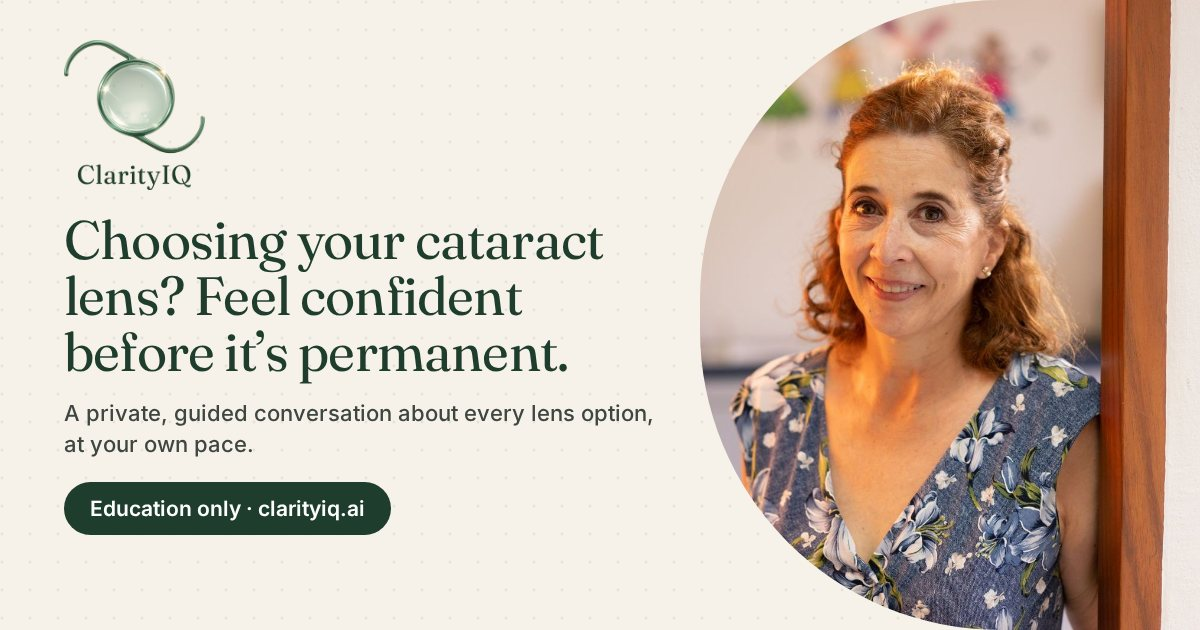
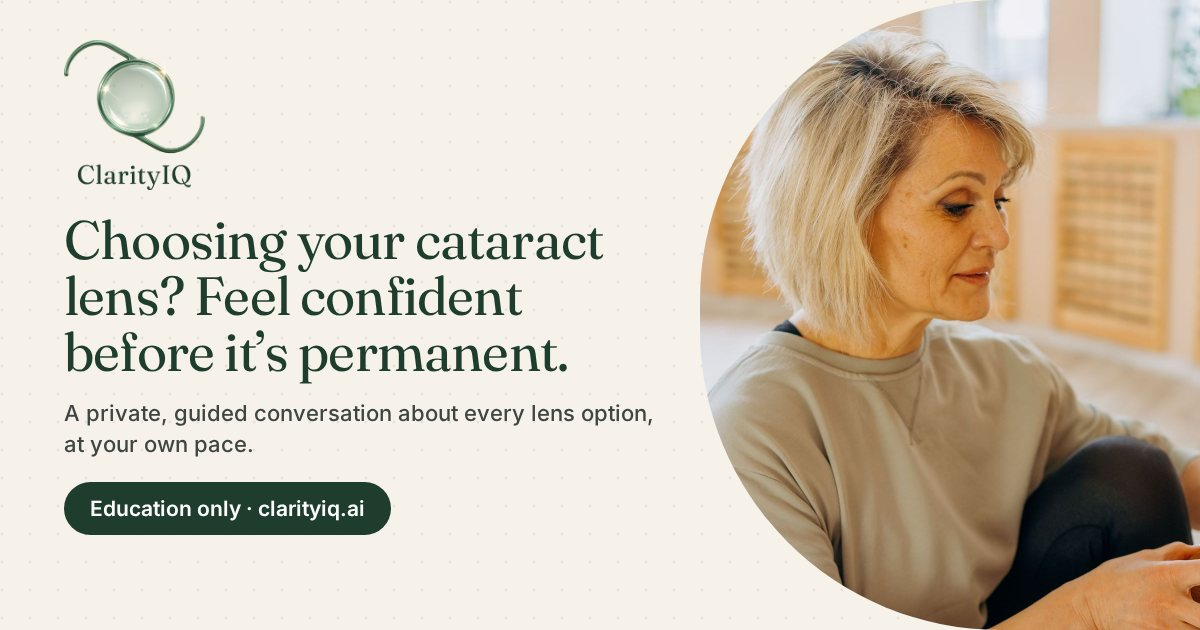
Round 3: calmer hero photo, own photos for guide heroes, Get launch pass header CTA on guides
- Hero: Pexels 7500707 (Mikhail Nilov); og-home.jpg rebuilt
- Lens guide hub: Pexels 10879117; lens types: Pexels 6028685; how it works: Pexels 7793713 (no photo reused across pages)
- Guide header CTA reads Get launch pass, links /#offer, keeps data-seo-cta=seo_session
- Tests: uniqueness + header CTA checks

diff --git a/monofocal-vs-multifocal-vs-edof-lens.html b/monofocal-vs-multifocal-vs-edof-lens.html
@@ -275,7 +275,7 @@
 <header class="nav">
   <div class="wrap nav-inner">
     <a href="/" class="logo" aria-label="ClarityIQ home"><span class="logo-slot"><picture><source media="(max-width:900px)" srcset="/brand/clarityiq-horizontal-32h@1x.webp 1x, /brand/clarityiq-horizontal-32h@2x.webp 2x" type="image/webp"><source srcset="/brand/clarityiq-horizontal-40h@1x.webp 1x, /brand/clarityiq-horizontal-40h@2x.webp 2x" type="image/webp"><img src="/brand/clarityiq-horizontal-40h@1x.png" srcset="/brand/clarityiq-horizontal-40h@2x.png 2x" width="186" height="40" alt="ClarityIQ"></picture></span></a>
-    <a href="/#offer" class="btn btn-secondary" data-seo-cta="seo_session">Start a session</a>
+    <a href="/#offer" class="btn btn-secondary" data-seo-cta="seo_session">Get launch pass</a>
   </div>
   <nav class="pillbar" aria-label="Guides"><div class="wrap pills"><a class="pill" href="/which-lens-for-cataract-surgery"><svg class="ic ic-pill" aria-hidden="true" focusable="false" xmlns="http://www.w3.org/2000/svg" viewBox="0 0 24 24" fill="none" stroke="currentColor" stroke-width="2" stroke-linecap="round" stroke-linejoin="round" ><path d="M12 5v16" /><path d="M20.001 19A2 2 0 0022 17V5a2 2 0 00-1.999-2L16 3.002A5 5 0 0012 5a5 5 0 00-4-2H4a2 2 0 00-2 2v12a2 2 0 001.999 2H8a5 5 0 014 2 5 5 0 014-2z" /></svg><span>Lens guide</span></a><a class="pill" href="/monofocal-vs-multifocal-vs-edof-lens" aria-current="page"><svg class="ic ic-pill" aria-hidden="true" focusable="false" xmlns="http://www.w3.org/2000/svg" viewBox="0 0 24 24" fill="none" stroke="currentColor" stroke-width="2" stroke-linecap="round" stroke-linejoin="round" ><path d="M2.062 12.348a1 1 0 0 1 0-.696 10.75 10.75 0 0 1 19.876 0 1 1 0 0 1 0 .696 10.75 10.75 0 0 1-19.876 0" /><circle cx="12" cy="12" r="3" /></svg><span>Lens options</span></a><a class="pill" href="/toric-lens-astigmatism-cataract-surgery"><svg class="ic ic-pill" aria-hidden="true" focusable="false" xmlns="http://www.w3.org/2000/svg" viewBox="0 0 24 24" fill="none" stroke="currentColor" stroke-width="2" stroke-linecap="round" stroke-linejoin="round" ><path d="M21 12a9 9 0 1 1-9-9c2.52 0 4.93 1 6.74 2.74L21 8" /><path d="M21 3v5h-5" /></svg><span>Toric lenses</span></a><a class="pill" href="/questions-to-ask-cataract-surgeon"><svg class="ic ic-pill" aria-hidden="true" focusable="false" xmlns="http://www.w3.org/2000/svg" viewBox="0 0 24 24" fill="none" stroke="currentColor" stroke-width="2" stroke-linecap="round" stroke-linejoin="round" ><path d="M13 5h8" /><path d="M13 12h8" /><path d="M13 19h8" /><path d="m3 17 2 2 4-4" /><path d="m3 7 2 2 4-4" /></svg><span>Questions to ask</span></a><a class="pill" href="/how-clarityiq-works"><svg class="ic ic-pill" aria-hidden="true" focusable="false" xmlns="http://www.w3.org/2000/svg" viewBox="0 0 24 24" fill="none" stroke="currentColor" stroke-width="2" stroke-linecap="round" stroke-linejoin="round" ><path d="M12 19v3" /><path d="M19 10v2a7 7 0 0 1-14 0v-2" /><rect x="9" y="2" width="6" height="13" rx="3" /></svg><span>How it works</span></a><a class="pill" href="/#free-guides"><svg class="ic ic-pill" aria-hidden="true" focusable="false" xmlns="http://www.w3.org/2000/svg" viewBox="0 0 24 24" fill="none" stroke="currentColor" stroke-width="2" stroke-linecap="round" stroke-linejoin="round" ><path d="M6 22a2 2 0 0 1-2-2V4a2 2 0 0 1 2-2h8a2.4 2.4 0 0 1 1.704.706l3.588 3.588A2.4 2.4 0 0 1 20 8v12a2 2 0 0 1-2 2z" /><path d="M14 2v5a1 1 0 0 0 1 1h5" /><path d="M10 9H8" /><path d="M16 13H8" /><path d="M16 17H8" /></svg><span>Free guides</span></a><a class="pill" href="/#founder"><svg class="ic ic-pill" aria-hidden="true" focusable="false" xmlns="http://www.w3.org/2000/svg" viewBox="0 0 24 24" fill="none" stroke="currentColor" stroke-width="2" stroke-linecap="round" stroke-linejoin="round" ><path d="M2 21a8 8 0 0 1 13.292-6" /><circle cx="10" cy="8" r="5" /><path d="m16 19 2 2 4-4" /></svg><span>About</span></a></div></nav>
 </header>
@@ -287,7 +287,7 @@
 <p class="byline">ClarityIQ · Reviewed by a board-certified ophthalmologist</p>
 <p class="updated">Last updated November 18, 2026.</p>
 <p class="share-inline ciq-share-wrap"><button type="button" class="ciq-share" data-share-surface="guide_lens_types">Send this to a family member</button></p>
-</div><figure class="hero-art"><picture><source srcset="/images/home/home-step-understand-v2.webp" type="image/webp"><img src="/images/home/home-step-understand-v2.jpg" width="900" height="600" alt="" decoding="async" style="object-position:25% center"></picture></figure></div></div>
+</div><figure class="hero-art"><picture><source srcset="/images/home/guide-compare-laptop.webp" type="image/webp"><img src="/images/home/guide-compare-laptop.jpg" width="1200" height="800" alt="" decoding="async" style="object-position:62% center"></picture></figure></div></div>
 
 <p>Before cataract surgery, you may be asked to choose between a monofocal lens, an extended depth of focus (EDOF) lens, and a multifocal lens. This page puts the three side by side. Each one is described with the same three questions: what it aims for, its trade-offs, and who might ask about it.</p>
 <p class="note">No lens category is better than the others for everyone. Results vary by eye and by surgeon, and this page will not tell you which lens to pick. That choice belongs to you and your surgeon.</p>

diff --git a/which-lens-for-cataract-surgery.html b/which-lens-for-cataract-surgery.html
@@ -260,7 +260,7 @@
 <header class="nav">
   <div class="wrap nav-inner">
     <a href="/" class="logo" aria-label="ClarityIQ home"><span class="logo-slot"><picture><source media="(max-width:900px)" srcset="/brand/clarityiq-horizontal-32h@1x.webp 1x, /brand/clarityiq-horizontal-32h@2x.webp 2x" type="image/webp"><source srcset="/brand/clarityiq-horizontal-40h@1x.webp 1x, /brand/clarityiq-horizontal-40h@2x.webp 2x" type="image/webp"><img src="/brand/clarityiq-horizontal-40h@1x.png" srcset="/brand/clarityiq-horizontal-40h@2x.png 2x" width="186" height="40" alt="ClarityIQ"></picture></span></a>
-    <a href="/#offer" class="btn btn-secondary" data-seo-cta="seo_session">Start a session</a>
+    <a href="/#offer" class="btn btn-secondary" data-seo-cta="seo_session">Get launch pass</a>
   </div>
   <nav class="pillbar" aria-label="Guides"><div class="wrap pills"><a class="pill" href="/which-lens-for-cataract-surgery" aria-current="page"><svg class="ic ic-pill" aria-hidden="true" focusable="false" xmlns="http://www.w3.org/2000/svg" viewBox="0 0 24 24" fill="none" stroke="currentColor" stroke-width="2" stroke-linecap="round" stroke-linejoin="round" ><path d="M12 5v16" /><path d="M20.001 19A2 2 0 0022 17V5a2 2 0 00-1.999-2L16 3.002A5 5 0 0012 5a5 5 0 00-4-2H4a2 2 0 00-2 2v12a2 2 0 001.999 2H8a5 5 0 014 2 5 5 0 014-2z" /></svg><span>Lens guide</span></a><a class="pill" href="/monofocal-vs-multifocal-vs-edof-lens"><svg class="ic ic-pill" aria-hidden="true" focusable="false" xmlns="http://www.w3.org/2000/svg" viewBox="0 0 24 24" fill="none" stroke="currentColor" stroke-width="2" stroke-linecap="round" stroke-linejoin="round" ><path d="M2.062 12.348a1 1 0 0 1 0-.696 10.75 10.75 0 0 1 19.876 0 1 1 0 0 1 0 .696 10.75 10.75 0 0 1-19.876 0" /><circle cx="12" cy="12" r="3" /></svg><span>Lens options</span></a><a class="pill" href="/toric-lens-astigmatism-cataract-surgery"><svg class="ic ic-pill" aria-hidden="true" focusable="false" xmlns="http://www.w3.org/2000/svg" viewBox="0 0 24 24" fill="none" stroke="currentColor" stroke-width="2" stroke-linecap="round" stroke-linejoin="round" ><path d="M21 12a9 9 0 1 1-9-9c2.52 0 4.93 1 6.74 2.74L21 8" /><path d="M21 3v5h-5" /></svg><span>Toric lenses</span></a><a class="pill" href="/questions-to-ask-cataract-surgeon"><svg class="ic ic-pill" aria-hidden="true" focusable="false" xmlns="http://www.w3.org/2000/svg" viewBox="0 0 24 24" fill="none" stroke="currentColor" stroke-width="2" stroke-linecap="round" stroke-linejoin="round" ><path d="M13 5h8" /><path d="M13 12h8" /><path d="M13 19h8" /><path d="m3 17 2 2 4-4" /><path d="m3 7 2 2 4-4" /></svg><span>Questions to ask</span></a><a class="pill" href="/how-clarityiq-works"><svg class="ic ic-pill" aria-hidden="true" focusable="false" xmlns="http://www.w3.org/2000/svg" viewBox="0 0 24 24" fill="none" stroke="currentColor" stroke-width="2" stroke-linecap="round" stroke-linejoin="round" ><path d="M12 19v3" /><path d="M19 10v2a7 7 0 0 1-14 0v-2" /><rect x="9" y="2" width="6" height="13" rx="3" /></svg><span>How it works</span></a><a class="pill" href="/#free-guides"><svg class="ic ic-pill" aria-hidden="true" focusable="false" xmlns="http://www.w3.org/2000/svg" viewBox="0 0 24 24" fill="none" stroke="currentColor" stroke-width="2" stroke-linecap="round" stroke-linejoin="round" ><path d="M6 22a2 2 0 0 1-2-2V4a2 2 0 0 1 2-2h8a2.4 2.4 0 0 1 1.704.706l3.588 3.588A2.4 2.4 0 0 1 20 8v12a2 2 0 0 1-2 2z" /><path d="M14 2v5a1 1 0 0 0 1 1h5" /><path d="M10 9H8" /><path d="M16 13H8" /><path d="M16 17H8" /></svg><span>Free guides</span></a><a class="pill" href="/#founder"><svg class="ic ic-pill" aria-hidden="true" focusable="false" xmlns="http://www.w3.org/2000/svg" viewBox="0 0 24 24" fill="none" stroke="currentColor" stroke-width="2" stroke-linecap="round" stroke-linejoin="round" ><path d="M2 21a8 8 0 0 1 13.292-6" /><circle cx="10" cy="8" r="5" /><path d="m16 19 2 2 4-4" /></svg><span>About</span></a></div></nav>
 </header>
@@ -272,7 +272,7 @@
 <p class="byline">ClarityIQ · Reviewed by a board-certified ophthalmologist</p>
 <p class="updated">Last updated November 18, 2026.</p>
 <p class="share-inline ciq-share-wrap"><button type="button" class="ciq-share" data-share-surface="guide_which_lens">Send this to a family member</button></p>
-</div><figure class="hero-art"><picture><source srcset="/images/home/home-goals-outdoors.webp" type="image/webp"><img src="/images/home/home-goals-outdoors.jpg" width="1400" height="934" alt="" decoding="async" style="object-position:50% 30%"></picture></figure></div></div>
+</div><figure class="hero-art"><picture><source srcset="/images/home/home-guide-reading.webp" type="image/webp"><img src="/images/home/home-guide-reading.jpg" width="1000" height="1500" alt="" decoding="async" style="object-position:50% 40%"></picture></figure></div></div>
 
 <p>During cataract surgery, the cloudy lens inside your eye is removed and replaced with an artificial lens. This new lens is called an intraocular lens, or IOL. The lens is meant to stay in your eye for the rest of your life, so it helps to understand your options before the lens is implanted.</p>
 <p class="note">Every lens has trade-offs, and results vary by eye and by surgeon. Many people today reach their goal of depending less on glasses.</p>

diff --git a/how-clarityiq-works.html b/how-clarityiq-works.html
@@ -282,7 +282,7 @@
 <header class="nav">
   <div class="wrap nav-inner">
     <a href="/" class="logo" aria-label="ClarityIQ home"><span class="logo-slot"><picture><source media="(max-width:900px)" srcset="/brand/clarityiq-horizontal-32h@1x.webp 1x, /brand/clarityiq-horizontal-32h@2x.webp 2x" type="image/webp"><source srcset="/brand/clarityiq-horizontal-40h@1x.webp 1x, /brand/clarityiq-horizontal-40h@2x.webp 2x" type="image/webp"><img src="/brand/clarityiq-horizontal-40h@1x.png" srcset="/brand/clarityiq-horizontal-40h@2x.png 2x" width="186" height="40" alt="ClarityIQ"></picture></span></a>
-    <a href="/#offer" class="btn btn-secondary" data-seo-cta="seo_session">Start a session</a>
+    <a href="/#offer" class="btn btn-secondary" data-seo-cta="seo_session">Get launch pass</a>
   </div>
   <nav class="pillbar" aria-label="Guides"><div class="wrap pills"><a class="pill" href="/which-lens-for-cataract-surgery"><svg class="ic ic-pill" aria-hidden="true" focusable="false" xmlns="http://www.w3.org/2000/svg" viewBox="0 0 24 24" fill="none" stroke="currentColor" stroke-width="2" stroke-linecap="round" stroke-linejoin="round" ><path d="M12 5v16" /><path d="M20.001 19A2 2 0 0022 17V5a2 2 0 00-1.999-2L16 3.002A5 5 0 0012 5a5 5 0 00-4-2H4a2 2 0 00-2 2v12a2 2 0 001.999 2H8a5 5 0 014 2 5 5 0 014-2z" /></svg><span>Lens guide</span></a><a class="pill" href="/monofocal-vs-multifocal-vs-edof-lens"><svg class="ic ic-pill" aria-hidden="true" focusable="false" xmlns="http://www.w3.org/2000/svg" viewBox="0 0 24 24" fill="none" stroke="currentColor" stroke-width="2" stroke-linecap="round" stroke-linejoin="round" ><path d="M2.062 12.348a1 1 0 0 1 0-.696 10.75 10.75 0 0 1 19.876 0 1 1 0 0 1 0 .696 10.75 10.75 0 0 1-19.876 0" /><circle cx="12" cy="12" r="3" /></svg><span>Lens options</span></a><a class="pill" href="/toric-lens-astigmatism-cataract-surgery"><svg class="ic ic-pill" aria-hidden="true" focusable="false" xmlns="http://www.w3.org/2000/svg" viewBox="0 0 24 24" fill="none" stroke="currentColor" stroke-width="2" stroke-linecap="round" stroke-linejoin="round" ><path d="M21 12a9 9 0 1 1-9-9c2.52 0 4.93 1 6.74 2.74L21 8" /><path d="M21 3v5h-5" /></svg><span>Toric lenses</span></a><a class="pill" href="/questions-to-ask-cataract-surgeon"><svg class="ic ic-pill" aria-hidden="true" focusable="false" xmlns="http://www.w3.org/2000/svg" viewBox="0 0 24 24" fill="none" stroke="currentColor" stroke-width="2" stroke-linecap="round" stroke-linejoin="round" ><path d="M13 5h8" /><path d="M13 12h8" /><path d="M13 19h8" /><path d="m3 17 2 2 4-4" /><path d="m3 7 2 2 4-4" /></svg><span>Questions to ask</span></a><a class="pill" href="/how-clarityiq-works" aria-current="page"><svg class="ic ic-pill" aria-hidden="true" focusable="false" xmlns="http://www.w3.org/2000/svg" viewBox="0 0 24 24" fill="none" stroke="currentColor" stroke-width="2" stroke-linecap="round" stroke-linejoin="round" ><path d="M12 19v3" /><path d="M19 10v2a7 7 0 0 1-14 0v-2" /><rect x="9" y="2" width="6" height="13" rx="3" /></svg><span>How it works</span></a><a class="pill" href="/#free-guides"><svg class="ic ic-pill" aria-hidden="true" focusable="false" xmlns="http://www.w3.org/2000/svg" viewBox="0 0 24 24" fill="none" stroke="currentColor" stroke-width="2" stroke-linecap="round" stroke-linejoin="round" ><path d="M6 22a2 2 0 0 1-2-2V4a2 2 0 0 1 2-2h8a2.4 2.4 0 0 1 1.704.706l3.588 3.588A2.4 2.4 0 0 1 20 8v12a2 2 0 0 1-2 2z" /><path d="M14 2v5a1 1 0 0 0 1 1h5" /><path d="M10 9H8" /><path d="M16 13H8" /><path d="M16 17H8" /></svg><span>Free guides</span></a><a class="pill" href="/#founder"><svg class="ic ic-pill" aria-hidden="true" focusable="false" xmlns="http://www.w3.org/2000/svg" viewBox="0 0 24 24" fill="none" stroke="currentColor" stroke-width="2" stroke-linecap="round" stroke-linejoin="round" ><path d="M2 21a8 8 0 0 1 13.292-6" /><circle cx="10" cy="8" r="5" /><path d="m16 19 2 2 4-4" /></svg><span>About</span></a></div></nav>
 </header>
@@ -292,7 +292,7 @@
 <div class="page-hero"><div class="page-hero-in"><div class="page-hero-copy">
 <h1>How ClarityIQ works</h1>
 <p class="byline">ClarityIQ · Built by a board-certified cataract surgeon</p>
-</div><figure class="hero-art"><picture><source srcset="/images/home/home-step-talk-v2.webp" type="image/webp"><img src="/images/home/home-step-talk-v2.jpg" width="900" height="600" alt="" decoding="async" style="object-position:78% center"></picture></figure></div></div>
+</div><figure class="hero-art"><picture><source srcset="/images/home/guide-how-call.webp" type="image/webp"><img src="/images/home/guide-how-call.jpg" width="1000" height="1500" alt="" decoding="async" style="object-position:50% 30%"></picture></figure></div></div>
 <p>ClarityIQ is a private, guided voice conversation about your cataract lens options. Use it before your consult, after it, or as a second look, at any point before the lens is implanted.</p>
 <nav class="jump" aria-label="On this page"><a href="#problem">The real problem</a> <a href="#difference">What changes</a> <a href="#library">The library</a> <a href="#walk-away">What you walk away with</a> <a href="#founder">Who&rsquo;s behind this</a> <a href="#faq">FAQ</a></nav>
 

diff --git a/index.html b/index.html
@@ -26,7 +26,7 @@
 <link rel="preconnect" href="https://fonts.gstatic.com" crossorigin>
 <link rel="preload" as="style" href="https://fonts.googleapis.com/css2?family=Fraunces:ital,opsz,wght@0,9..144,400;0,9..144,500;1,9..144,400&family=Inter:wght@400;500;600&display=swap" onload="this.onload=null;this.rel='stylesheet'">
 <noscript><link href="https://fonts.googleapis.com/css2?family=Fraunces:ital,opsz,wght@0,9..144,400;0,9..144,500;1,9..144,400&family=Inter:wght@400;500;600&display=swap" rel="stylesheet"></noscript>
-<link rel="preload" as="image" href="/images/home/home-hero-doorway.webp" type="image/webp">
+<link rel="preload" as="image" href="/images/home/home-hero-calm.webp" type="image/webp">
 <style>
   @font-face{font-family:'Fraunces Fallback';src:local('Georgia');size-adjust:104%;ascent-override:94%;descent-override:24%;line-gap-override:0%}
   @font-face{font-family:'Inter Fallback';src:local('Arial');size-adjust:108.3%;ascent-override:89.45%;descent-override:22.27%;line-gap-override:0%}
@@ -86,7 +86,7 @@
   .hero h1{font-size:80px;line-height:1.02;color:var(--forest);margin-bottom:26px}
   .hero-line{font-size:22px;line-height:1.5;max-width:520px;margin-bottom:36px;color:var(--ink-2)}
   .hero-photo{height:720px;border-radius:220px 0 0 220px;overflow:hidden}
-  .hero-photo img{width:100%;height:100%;object-fit:cover;object-position:80% center}
+  .hero-photo img{width:100%;height:100%;object-fit:cover;object-position:45% 25%}
   /* caption sits clear of the 220px rounded left edge */
   .hero-photo .glass{left:120px;right:28px;bottom:36px;max-width:340px}
   .hero .edu{margin-top:22px}
@@ -261,7 +261,7 @@
    .hero-line{font-size:19px}
    .hero-photo{height:440px;border-radius:160px 160px 0 0;margin:0 12px}
    .hero-photo .glass{left:16px;right:16px;bottom:16px;max-width:none}
-   .hero-photo img{object-position:78% center}
+   .hero-photo img{object-position:45% 18%}
    .hero .edu{padding:0 20px}
    .how,.topics,.goals,.why,.offer,.faq,.final{padding:80px 0}
    .steps,.topic-grid,.why-grid{grid-template-columns:1fr;gap:18px;margin-top:32px}
@@ -410,7 +410,7 @@
       <a href="#offer" class="btn btn-primary" data-checkout-tier="session"><span data-hide-when-free>Begin your IOL ClarityIQ session<span class="price-sep" hidden> &mdash; <span class="live-price" data-tier="session"></span></span></span><span data-show-when-free>Get your free launch pass</span><svg class="ic ic-arrow" aria-hidden="true" focusable="false" xmlns="http://www.w3.org/2000/svg" viewBox="0 0 24 24" fill="none" stroke="currentColor" stroke-width="2" stroke-linecap="round" stroke-linejoin="round" ><path d="M5 12h14" /><path d="m12 5 7 7-7 7" /></svg></a>
       <p class="free-line" data-show-when-free><s class="free-anchor live-base" data-tier="session">$249</s> <strong class="free-pass">Free launch pass</strong> &middot; Earn your pass by answering a 2-minute survey.</p>
     </div>
-    <figure class="hero-photo"><picture><source srcset="/images/home/home-hero-doorway.webp" type="image/webp"><img src="/images/home/home-hero-doorway.jpg" width="1600" height="1067" alt="A smiling woman leaning in a doorway at home" decoding="async" fetchpriority="high"></picture>
+    <figure class="hero-photo"><picture><source srcset="/images/home/home-hero-calm.webp" type="image/webp"><img src="/images/home/home-hero-calm.jpg" width="1000" height="1500" alt="A woman sitting at home in warm afternoon light" decoding="async" fetchpriority="high"></picture>
       <figcaption class="glass"><svg class="ic" aria-hidden="true" focusable="false" xmlns="http://www.w3.org/2000/svg" viewBox="0 0 24 24" fill="none" stroke="currentColor" stroke-width="2" stroke-linecap="round" stroke-linejoin="round" ><path d="M12 19v3" /><path d="M19 10v2a7 7 0 0 1-14 0v-2" /><rect x="9" y="2" width="6" height="13" rx="3" /></svg><span>Talk it through at home, on your own time.</span></figcaption></figure>
   </div>
   <p class="edu wrap">Education only, not a substitute for your eye surgeon&rsquo;s advice.</p>

diff --git a/questions-to-ask-cataract-surgeon.html b/questions-to-ask-cataract-surgeon.html
@@ -282,7 +282,7 @@
 <header class="nav">
   <div class="wrap nav-inner">
     <a href="/" class="logo" aria-label="ClarityIQ home"><span class="logo-slot"><picture><source media="(max-width:900px)" srcset="/brand/clarityiq-horizontal-32h@1x.webp 1x, /brand/clarityiq-horizontal-32h@2x.webp 2x" type="image/webp"><source srcset="/brand/clarityiq-horizontal-40h@1x.webp 1x, /brand/clarityiq-horizontal-40h@2x.webp 2x" type="image/webp"><img src="/brand/clarityiq-horizontal-40h@1x.png" srcset="/brand/clarityiq-horizontal-40h@2x.png 2x" width="186" height="40" alt="ClarityIQ"></picture></span></a>
-    <a href="/#offer" class="btn btn-secondary" data-seo-cta="seo_session">Start a session</a>
+    <a href="/#offer" class="btn btn-secondary" data-seo-cta="seo_session">Get launch pass</a>
   </div>
   <nav class="pillbar" aria-label="Guides"><div class="wrap pills"><a class="pill" href="/which-lens-for-cataract-surgery"><svg class="ic ic-pill" aria-hidden="true" focusable="false" xmlns="http://www.w3.org/2000/svg" viewBox="0 0 24 24" fill="none" stroke="currentColor" stroke-width="2" stroke-linecap="round" stroke-linejoin="round" ><path d="M12 5v16" /><path d="M20.001 19A2 2 0 0022 17V5a2 2 0 00-1.999-2L16 3.002A5 5 0 0012 5a5 5 0 00-4-2H4a2 2 0 00-2 2v12a2 2 0 001.999 2H8a5 5 0 014 2 5 5 0 014-2z" /></svg><span>Lens guide</span></a><a class="pill" href="/monofocal-vs-multifocal-vs-edof-lens"><svg class="ic ic-pill" aria-hidden="true" focusable="false" xmlns="http://www.w3.org/2000/svg" viewBox="0 0 24 24" fill="none" stroke="currentColor" stroke-width="2" stroke-linecap="round" stroke-linejoin="round" ><path d="M2.062 12.348a1 1 0 0 1 0-.696 10.75 10.75 0 0 1 19.876 0 1 1 0 0 1 0 .696 10.75 10.75 0 0 1-19.876 0" /><circle cx="12" cy="12" r="3" /></svg><span>Lens options</span></a><a class="pill" href="/toric-lens-astigmatism-cataract-surgery"><svg class="ic ic-pill" aria-hidden="true" focusable="false" xmlns="http://www.w3.org/2000/svg" viewBox="0 0 24 24" fill="none" stroke="currentColor" stroke-width="2" stroke-linecap="round" stroke-linejoin="round" ><path d="M21 12a9 9 0 1 1-9-9c2.52 0 4.93 1 6.74 2.74L21 8" /><path d="M21 3v5h-5" /></svg><span>Toric lenses</span></a><a class="pill" href="/questions-to-ask-cataract-surgeon" aria-current="page"><svg class="ic ic-pill" aria-hidden="true" focusable="false" xmlns="http://www.w3.org/2000/svg" viewBox="0 0 24 24" fill="none" stroke="currentColor" stroke-width="2" stroke-linecap="round" stroke-linejoin="round" ><path d="M13 5h8" /><path d="M13 12h8" /><path d="M13 19h8" /><path d="m3 17 2 2 4-4" /><path d="m3 7 2 2 4-4" /></svg><span>Questions to ask</span></a><a class="pill" href="/how-clarityiq-works"><svg class="ic ic-pill" aria-hidden="true" focusable="false" xmlns="http://www.w3.org/2000/svg" viewBox="0 0 24 24" fill="none" stroke="currentColor" stroke-width="2" stroke-linecap="round" stroke-linejoin="round" ><path d="M12 19v3" /><path d="M19 10v2a7 7 0 0 1-14 0v-2" /><rect x="9" y="2" width="6" height="13" rx="3" /></svg><span>How it works</span></a><a class="pill" href="/#free-guides"><svg class="ic ic-pill" aria-hidden="true" focusable="false" xmlns="http://www.w3.org/2000/svg" viewBox="0 0 24 24" fill="none" stroke="currentColor" stroke-width="2" stroke-linecap="round" stroke-linejoin="round" ><path d="M6 22a2 2 0 0 1-2-2V4a2 2 0 0 1 2-2h8a2.4 2.4 0 0 1 1.704.706l3.588 3.588A2.4 2.4 0 0 1 20 8v12a2 2 0 0 1-2 2z" /><path d="M14 2v5a1 1 0 0 0 1 1h5" /><path d="M10 9H8" /><path d="M16 13H8" /><path d="M16 17H8" /></svg><span>Free guides</span></a><a class="pill" href="/#founder"><svg class="ic ic-pill" aria-hidden="true" focusable="false" xmlns="http://www.w3.org/2000/svg" viewBox="0 0 24 24" fill="none" stroke="currentColor" stroke-width="2" stroke-linecap="round" stroke-linejoin="round" ><path d="M2 21a8 8 0 0 1 13.292-6" /><circle cx="10" cy="8" r="5" /><path d="m16 19 2 2 4-4" /></svg><span>About</span></a></div></nav>
 </header>

diff --git a/toric-lens-astigmatism-cataract-surgery.html b/toric-lens-astigmatism-cataract-surgery.html
@@ -291,7 +291,7 @@
 <header class="nav">
   <div class="wrap nav-inner">
     <a href="/" class="logo" aria-label="ClarityIQ home"><span class="logo-slot"><picture><source media="(max-width:900px)" srcset="/brand/clarityiq-horizontal-32h@1x.webp 1x, /brand/clarityiq-horizontal-32h@2x.webp 2x" type="image/webp"><source srcset="/brand/clarityiq-horizontal-40h@1x.webp 1x, /brand/clarityiq-horizontal-40h@2x.webp 2x" type="image/webp"><img src="/brand/clarityiq-horizontal-40h@1x.png" srcset="/brand/clarityiq-horizontal-40h@2x.png 2x" width="186" height="40" alt="ClarityIQ"></picture></span></a>
-    <a href="/#offer" class="btn btn-secondary" data-seo-cta="seo_session">Start a session</a>
+    <a href="/#offer" class="btn btn-secondary" data-seo-cta="seo_session">Get launch pass</a>
   </div>
   <nav class="pillbar" aria-label="Guides"><div class="wrap pills"><a class="pill" href="/which-lens-for-cataract-surgery"><svg class="ic ic-pill" aria-hidden="true" focusable="false" xmlns="http://www.w3.org/2000/svg" viewBox="0 0 24 24" fill="none" stroke="currentColor" stroke-width="2" stroke-linecap="round" stroke-linejoin="round" ><path d="M12 5v16" /><path d="M20.001 19A2 2 0 0022 17V5a2 2 0 00-1.999-2L16 3.002A5 5 0 0012 5a5 5 0 00-4-2H4a2 2 0 00-2 2v12a2 2 0 001.999 2H8a5 5 0 014 2 5 5 0 014-2z" /></svg><span>Lens guide</span></a><a class="pill" href="/monofocal-vs-multifocal-vs-edof-lens"><svg class="ic ic-pill" aria-hidden="true" focusable="false" xmlns="http://www.w3.org/2000/svg" viewBox="0 0 24 24" fill="none" stroke="currentColor" stroke-width="2" stroke-linecap="round" stroke-linejoin="round" ><path d="M2.062 12.348a1 1 0 0 1 0-.696 10.75 10.75 0 0 1 19.876 0 1 1 0 0 1 0 .696 10.75 10.75 0 0 1-19.876 0" /><circle cx="12" cy="12" r="3" /></svg><span>Lens options</span></a><a class="pill" href="/toric-lens-astigmatism-cataract-surgery" aria-current="page"><svg class="ic ic-pill" aria-hidden="true" focusable="false" xmlns="http://www.w3.org/2000/svg" viewBox="0 0 24 24" fill="none" stroke="currentColor" stroke-width="2" stroke-linecap="round" stroke-linejoin="round" ><path d="M21 12a9 9 0 1 1-9-9c2.52 0 4.93 1 6.74 2.74L21 8" /><path d="M21 3v5h-5" /></svg><span>Toric lenses</span></a><a class="pill" href="/questions-to-ask-cataract-surgeon"><svg class="ic ic-pill" aria-hidden="true" focusable="false" xmlns="http://www.w3.org/2000/svg" viewBox="0 0 24 24" fill="none" stroke="currentColor" stroke-width="2" stroke-linecap="round" stroke-linejoin="round" ><path d="M13 5h8" /><path d="M13 12h8" /><path d="M13 19h8" /><path d="m3 17 2 2 4-4" /><path d="m3 7 2 2 4-4" /></svg><span>Questions to ask</span></a><a class="pill" href="/how-clarityiq-works"><svg class="ic ic-pill" aria-hidden="true" focusable="false" xmlns="http://www.w3.org/2000/svg" viewBox="0 0 24 24" fill="none" stroke="currentColor" stroke-width="2" stroke-linecap="round" stroke-linejoin="round" ><path d="M12 19v3" /><path d="M19 10v2a7 7 0 0 1-14 0v-2" /><rect x="9" y="2" width="6" height="13" rx="3" /></svg><span>How it works</span></a><a class="pill" href="/#free-guides"><svg class="ic ic-pill" aria-hidden="true" focusable="false" xmlns="http://www.w3.org/2000/svg" viewBox="0 0 24 24" fill="none" stroke="currentColor" stroke-width="2" stroke-linecap="round" stroke-linejoin="round" ><path d="M6 22a2 2 0 0 1-2-2V4a2 2 0 0 1 2-2h8a2.4 2.4 0 0 1 1.704.706l3.588 3.588A2.4 2.4 0 0 1 20 8v12a2 2 0 0 1-2 2z" /><path d="M14 2v5a1 1 0 0 0 1 1h5" /><path d="M10 9H8" /><path d="M16 13H8" /><path d="M16 17H8" /></svg><span>Free guides</span></a><a class="pill" href="/#founder"><svg class="ic ic-pill" aria-hidden="true" focusable="false" xmlns="http://www.w3.org/2000/svg" viewBox="0 0 24 24" fill="none" stroke="currentColor" stroke-width="2" stroke-linecap="round" stroke-linejoin="round" ><path d="M2 21a8 8 0 0 1 13.292-6" /><circle cx="10" cy="8" r="5" /><path d="m16 19 2 2 4-4" /></svg><span>About</span></a></div></nav>
 </header>

diff --git a/images/home/CREDITS.md b/images/home/CREDITS.md
@@ -4,16 +4,19 @@ Photos are from Pexels under the Pexels License (https://www.pexels.com/license/
 
 | File | Photographer | Source | Used on |
 |---|---|---|---|
-| home-hero-doorway.jpg/.webp | Los Muertos Crew | https://www.pexels.com/photo/a-woman-in-floral-top-smiling-while-leaning-on-a-wooden-wall-8459999/ | Homepage hero, og-home.jpg |
-| home-step-talk-v2.jpg/.webp | Kaboompics | https://www.pexels.com/photo/woman-smiling-while-using-a-laptop-5908772/ | Homepage step 1, How it works hero |
-| home-step-understand-v2.jpg/.webp | Andrea Zanon | https://www.pexels.com/photo/thinking-ahead-27274440/ | Homepage step 2, lens types hero |
+| home-hero-calm.jpg/.webp | Mikhail Nilov | https://www.pexels.com/photo/woman-in-long-sleeve-shirt-sitting-7500707/ | Homepage hero, og-home.jpg |
+| home-guide-reading.jpg/.webp | Ushindi Namegabe | https://www.pexels.com/photo/man-sitting-by-table-with-newspaper-10879117/ | Lens guide hub hero |
+| guide-compare-laptop.jpg/.webp | Kaboompics | https://www.pexels.com/photo/woman-holding-her-eyeglasses-using-a-laptop-6028685/ | Lens types compared hero |
+| guide-how-call.jpg/.webp | Yan Krukau | https://www.pexels.com/photo/a-bearded-man-having-a-phone-call-7793713/ | How it works hero |
+| home-step-talk-v2.jpg/.webp | Kaboompics | https://www.pexels.com/photo/woman-smiling-while-using-a-laptop-5908772/ | Homepage step 1 |
+| home-step-understand-v2.jpg/.webp | Andrea Zanon | https://www.pexels.com/photo/thinking-ahead-27274440/ | Homepage step 2 |
 | home-step-notes-v3.jpg/.webp (top 13% cropped) | Andrea Piacquadio | https://www.pexels.com/photo/woman-in-blue-floral-top-sitting-while-using-laptop-806835/ | Homepage step 3 |
-| home-goals-outdoors.jpg/.webp | Hyukman Kwon | https://www.pexels.com/photo/portrait-of-woman-smiling-in-autumn-forest-34477294/ | Homepage goals, lens guide hero |
+| home-goals-outdoors.jpg/.webp | Hyukman Kwon | https://www.pexels.com/photo/portrait-of-woman-smiling-in-autumn-forest-34477294/ | Homepage goals |
 | home-break-beach.jpg/.webp (mirrored) | Kindel Media | https://www.pexels.com/photo/a-man-and-a-woman-at-the-beach-7935873/ | Homepage quote band |
 | home-offer-couple.jpg/.webp | Vija Rindo Pratama | https://www.pexels.com/photo/women-wearing-hijab-leaning-on-a-man-near-a-brown-table-2526407/ | Homepage offer |
 | home-drive.jpg/.webp | Olasupo John | https://www.pexels.com/photo/a-man-in-sunglasses-driving-a-car-7569655/ | Toric lenses hero |
 
-Earlier v1 photos (home-hero-reading, home-break-seaside, home-step-talk, home-step-understand, home-step-notes, home-goals-painting, home-offer-kitchen) stay in this folder, unused, as an archive:
+Unused, kept as an archive: home-hero-doorway (Los Muertos Crew, Pexels 8459999, round-2 hero, replaced). Earlier v1 photos (home-hero-reading, home-break-seaside, home-step-talk, home-step-understand, home-step-notes, home-goals-painting, home-offer-kitchen) stay in this folder, unused, as an archive:
 cottonbro studio (4057763, 7885472), Jan van der Wolf (19014607), Kampus Production (6248437, 8439687), Pavel Danilyuk (6874216), T Leish (6975139), all Pexels License.
 
 Illustrations `/images/lens-guide/lens-guide-questions` and `/images/lens-guide/lens-guide-booklet` were generated for ClarityIQ (AI image tool, matched to the existing lens-guide illustration style). No third-party license.
